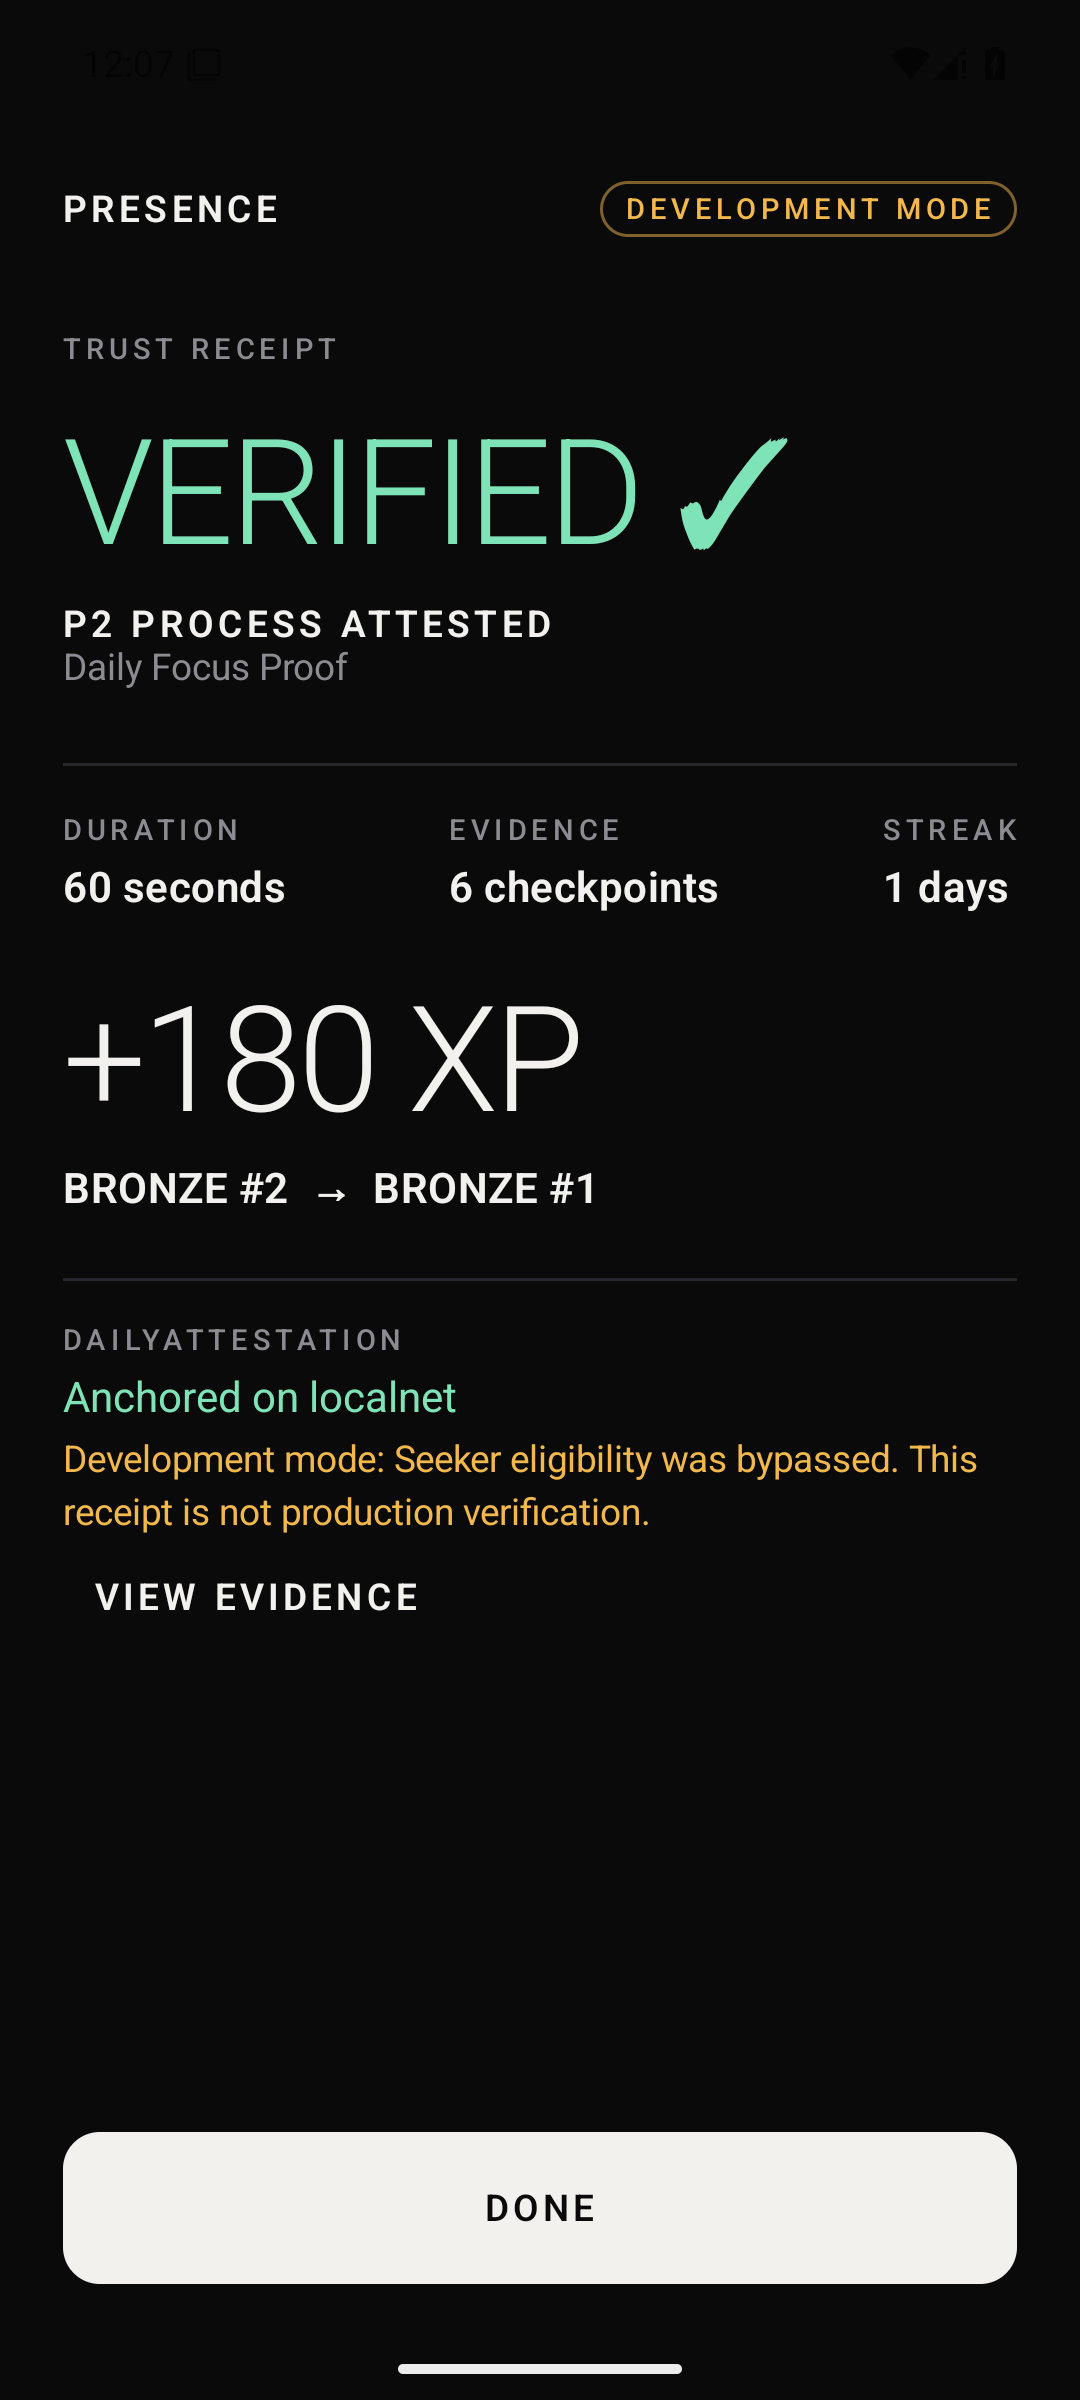
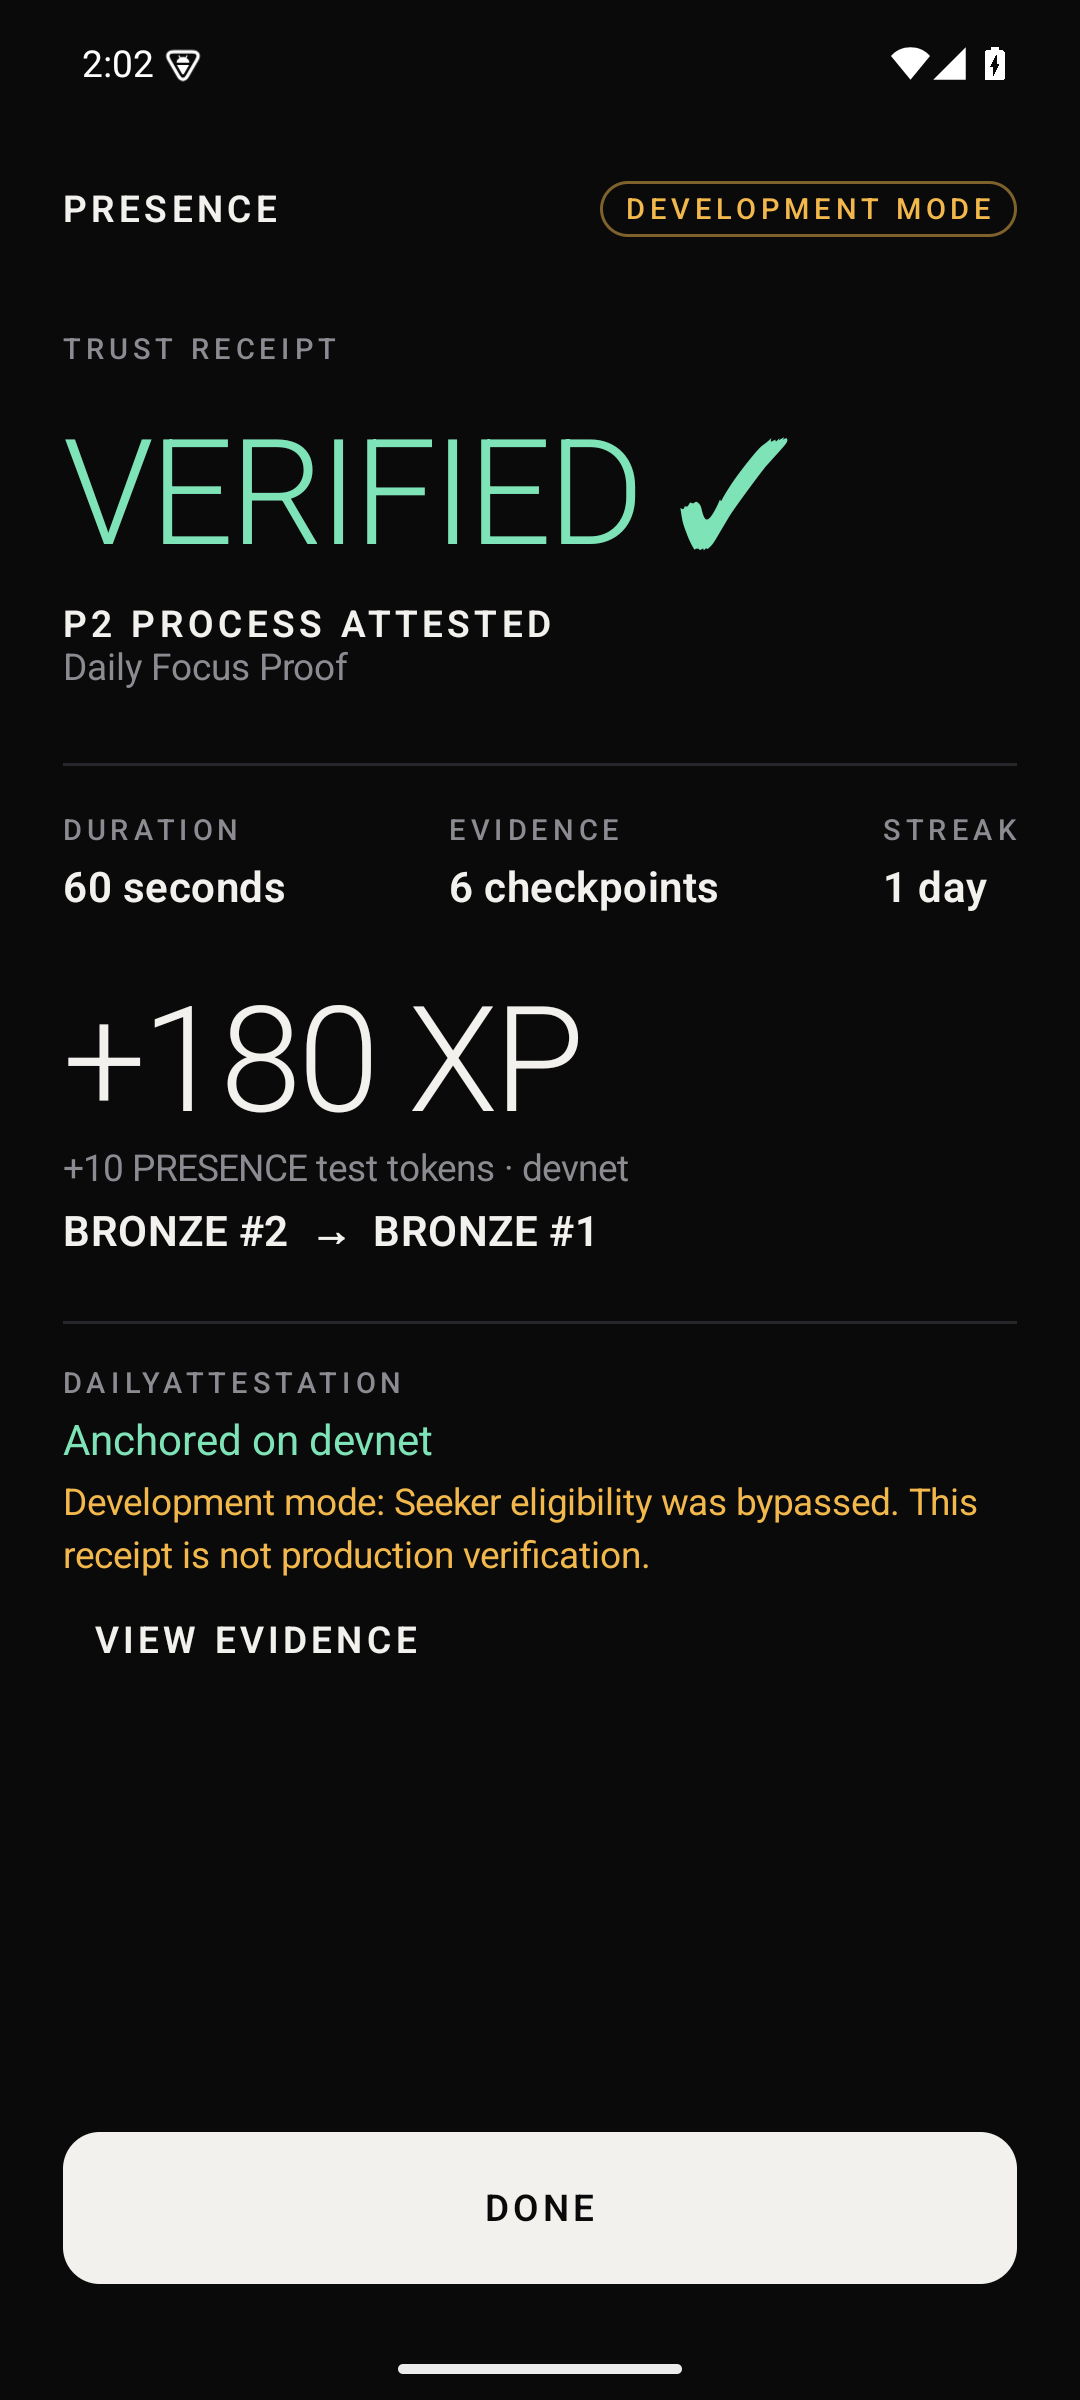
docs: document devnet deployment and token rewards

diff --git a/README.md b/README.md
@@ -128,6 +128,11 @@ goes on-chain.
 `record_attestation` requires the configured attestor signature and a day of today or yesterday (UTC). The attestor
 pays rent, so users need no SOL.
 
+**Reward settlement.** If `REWARD_MINT` is set, the mission's `reward.token` amount is minted to the user's token
+account **in the same transaction** as `record_attestation`. The reward cannot land without the attestation, and the
+one-per-day PDA stops it landing twice. The mint is a **devnet test token** whose mint authority is the attestor; it
+has no value. XP stays off-chain in ATTEST.
+
 ## 12. Android architecture
 
 `PresenceViewModel` orchestrates the session. Composables only render `UiState`. `WalletRepository` wraps MWA
@@ -149,7 +154,7 @@ Explicit failure reasons: `SESSION_EXPIRED`, `INVALID_NONCE`, `NONCE_REPLAY`, `I
 
 Built only from the server's verification output: assurance, server-measured duration, checkpoint count, evidence
 root, each check's status (`PASSED` / `DEV_BYPASS`), XP, league and rank before → after, streak, and settlement
-(`CONFIRMED` + tx / `NOT_CONFIGURED` / `FAILED`). "View evidence" shows the root, session, checks, every checkpoint
+(`CONFIRMED` + tx / `NOT_CONFIGURED` / `FAILED`), plus the test-token amount when one was minted. "View evidence" shows the root, session, checks, every checkpoint
 hash and the transaction.
 
 **Reputation is explicit counters.** `reputation` = sum of attested assurance levels (same rule on-chain and
@@ -175,7 +180,7 @@ timeline
 - **Not tested on a Seeker device.** Production SGT verification is implemented and unit-tested against
   the documented Token-2022 extension layout, but not exercised against a real SGT.
 - Development mode bypasses SGT and is labeled everywhere it applies.
-- The program is tested on localnet only; it is **not deployed to devnet/mainnet**.
+- Mainnet is not used. Devnet setup: `solana program deploy` + `scripts/devnet_setup.sh`. Rewards are a valueless devnet test token, not SKR.
 - P2 signals can be produced by automation running in real time on a real device (see docs/security.md).
 - ATTEST is a single process with SQLite and a global lock, and the attestor key is a file.
 - P3/P4, BLE, sponsor marketplace, ORE, curator network: not implemented.
@@ -191,8 +196,12 @@ Solana CLI (Agave) 4.3, Anchor 1.2.1, and an isolated rustup for `cargo build-sb
 # Program
 anchor build
 
-# Full local stack: validator + program + config + ATTEST (DEVELOPMENT MODE) on :8787
+# Full local stack: validator + program + config + reward mint + ATTEST (DEVELOPMENT MODE) on :8787
 scripts/dev_stack.sh
+
+# Devnet: deploy once, then attestor key + Config + reward mint → .devnet/attest.env
+solana program deploy target/deploy/presence.so --program-id target/deploy/presence-keypair.json -u devnet
+scripts/devnet_setup.sh
 
 # Android (emulator reaches the host at 10.0.2.2)
 ./gradlew :app:installDebug
